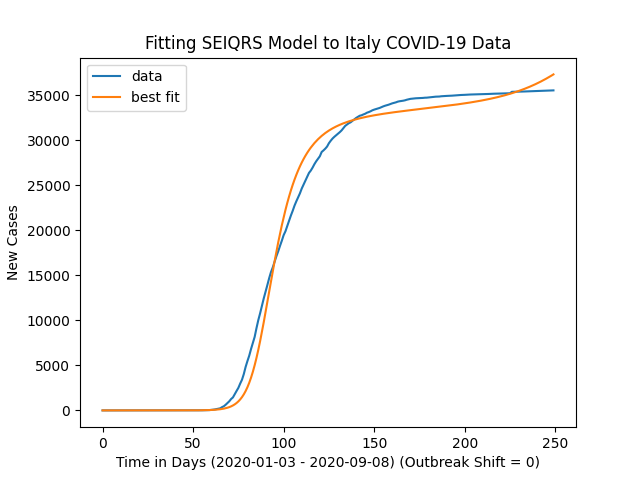
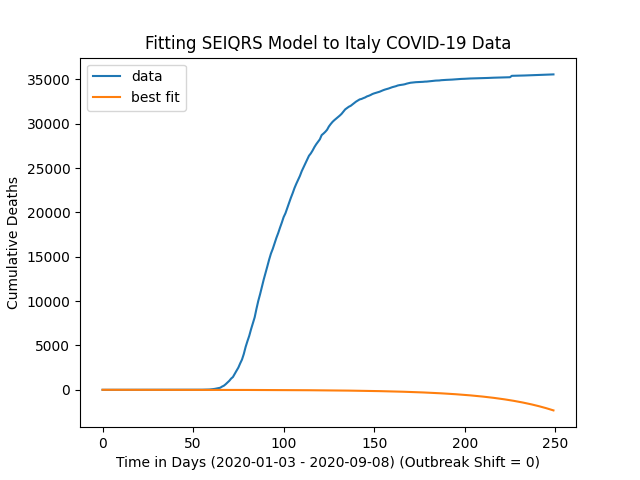
Added all new regressions

diff --git a/fitting/data_fit.py b/fitting/data_fit.py
@@ -25,22 +25,23 @@ with tqdm(total=2) as pbar:
 agegroup_lookup = dict(zip(agegroups['Location'], agegroups[['0_9', '10_19', '20_29', '30_39', '40_49', '50_59', '60_69', '70_79', '80_89', '90_100']].values))
 
 # parameters
-country = "Italy"
-country_data = covid_data[covid_data["Location"] == "Italy"]
+country = "Pakistan"
+country_data = covid_data[covid_data["Location"] == "Pakistan"]
+infection_data = country_data["Cumulative_cases"].values
 data = country_data["Cumulative_deaths"].values
 times = country_data["Date_reported"].values
-plt.title(f'New Cases COVID-19 Data ({country})')
+plt.title(f'Cumulative Deaths COVID-19 Data ({country})')
 plt.xlabel(f"Time in Days ({datetime.datetime.utcfromtimestamp(times[0].tolist()/1e9).date()} - {datetime.datetime.utcfromtimestamp(times[-1].tolist()/1e9).date()})")
-plt.ylabel('New Cases')
+plt.ylabel('Cumulative Deaths')
 plt.plot(data)
 plt.autoscale()
-plt.savefig(rf'fitting//new pics//{country}_new_cases.png')
+plt.savefig(rf'fitting//new pics//{country}_cumulative_deaths.png')
 plt.show(block=False)
 # data = data[:len(data)//3]
 # start at nth day
 saved_data = data
-data = data[:300]
-times = times[:300]
+data = data[:350]
+times = times[:350]
 
 # Moving Average
 # def moving_average(a, n=3) :
@@ -50,7 +51,7 @@ times = times[:300]
 # data = moving_average(data, 20)
 print(len(data))
 data -= data[0] # start cumulative sum at 0
-agegroups = agegroup_lookup["Italy"]
+agegroups = agegroup_lookup["Pakistan"]
 outbreak_shift = 0  # shift the outbreak by this many days (negative values are allowed)
 params_init_min_max = {"beta": (0.9, 0.1, 2), "zeta": (1./10, 1./50, 1), "mu": (1./90, 1./500, 1./5), "alpha": (1./50, 1./500, 1)} #"epsilon": (1./50, 1./500, 1)}  # form: {parameter: (initial guess, minimum value, max value)}
      
@@ -64,9 +65,9 @@ else:
 x_data = np.linspace(0, days - 1, days, dtype=int)  # x_data is just [0, 1, ..., max_days] array
 
 # Given Model Parameters (Based on COVID-19 Research Data)
-phi = 1/3
-gamma = 1/9
-kappa = 1/9
+phi = 1./3
+gamma = 1./9
+kappa = 1./9
 
 # Must Fit Beta, Zeta, Mu
 def fitter(x, beta, zeta, mu, alpha):
@@ -93,8 +94,8 @@ fit_method = "leastsq"
 result = mod.fit(y_data, params, method=fit_method, x=x_data)
      
 plt.figure()
-result.plot_fit(datafmt="-", xlabel=f"Time in Days ({datetime.datetime.utcfromtimestamp(times[0].tolist()/1e9).date()} - {datetime.datetime.utcfromtimestamp(times[-1].tolist()/1e9).date()}) (Outbreak Shift = {outbreak_shift})", ylabel="New Cases", title=f"Fitting SEIQRS Model to {country} COVID-19 Data")
-plt.savefig(rf"fitting//matrix//fit_{country}.png")
+result.plot_fit(datafmt="-", xlabel=f"Time in Days ({datetime.datetime.utcfromtimestamp(times[0].tolist()/1e9).date()} - {datetime.datetime.utcfromtimestamp(times[-1].tolist()/1e9).date()}) (Outbreak Shift = {outbreak_shift})", ylabel="Cumulative Deaths", title=f"Fitting SEIQRS Model to {country} COVID-19 Data")
+plt.savefig(rf"fitting//new pics//fit_{country}.png")
 print(result.best_values)
 plt.show(block=True)
 
@@ -103,6 +104,7 @@ beta = result.best_values["beta"]
 zeta = result.best_values["zeta"]
 mu = result.best_values["mu"]
 alpha = result.best_values["alpha"]
+
 epsilon = alpha
 
 t, N, S, E, I, Q, R, D, r_vals = Model(days+100, agegroups, beta, phi, zeta, gamma, kappa, mu, alpha, epsilon)
@@ -172,27 +174,25 @@ plt.autoscale()
 plt.savefig(rf'fitting//new pics/{country}.png')
 plt.show(block=False)
 
-#Plot Cumulative Infections Predicted
-t, N, S, E, I, Q, R, D, r_vals = Model(len(y_data) + 100, agegroups, beta, phi, zeta, gamma, kappa, mu, alpha, epsilon)
-
-# Undo Modelling Outbreak Shift
-t = t[outbreak_shift:]
-t -= t[0] + 1 # shift the x axis to start at 1
-S = S[outbreak_shift:]
-E = E[outbreak_shift:]
-I = I[outbreak_shift:]
-Q = Q[outbreak_shift:]
-R = R[outbreak_shift:]
-D = D[outbreak_shift:]
-r_vals = r_vals[outbreak_shift:]
+#Plot Cumulative Infections
+plt.figure()
+plt.plot(t, infection_data[:len(t)], label = "Actual Cumulative Infections")
+# plt.plot(t, (phi*E).cumsum(), label = "Predicted Cumulative Infections")
+plt.legend(loc='upper left')
+plt.title(f'Cumulative Infections over Time ({country})')
+plt.xlabel('Time (Days)')
+plt.ylabel('Infections (People)')
+plt.autoscale()
+plt.savefig(rf'fitting//new pics//{country}_cumulative_infections.png')
+plt.show(block=False)
 
 plt.figure()
-plt.plot(t, saved_data[:len(y_data) + 100], label = "Actual Cumulative Deaths")
-plt.plot(t, D[:len(y_data) + 100], label = "Predicted Cumulative Deaths")
+# plt.plot(t, infe[:len(t)], label = "Actual Cumulative Infections")
+plt.plot(t, (phi*E).cumsum(), label = "Predicted Cumulative Infections")
 plt.legend(loc='upper left')
-plt.title(f'Predicted Cumulative Deaths over Time ({country})')
+plt.title(f'Predicted Cumulative Infections over Time ({country})')
 plt.xlabel('Time (Days)')
-plt.ylabel('Deaths (People)')
+plt.ylabel('Infections (People)')
 plt.autoscale()
-plt.savefig(rf'fitting//new pics//{country}_predicted_new_cases.png')
+plt.savefig(rf'fitting//new pics//{country}_predicted_cumulative_infections.png')
 plt.show()
